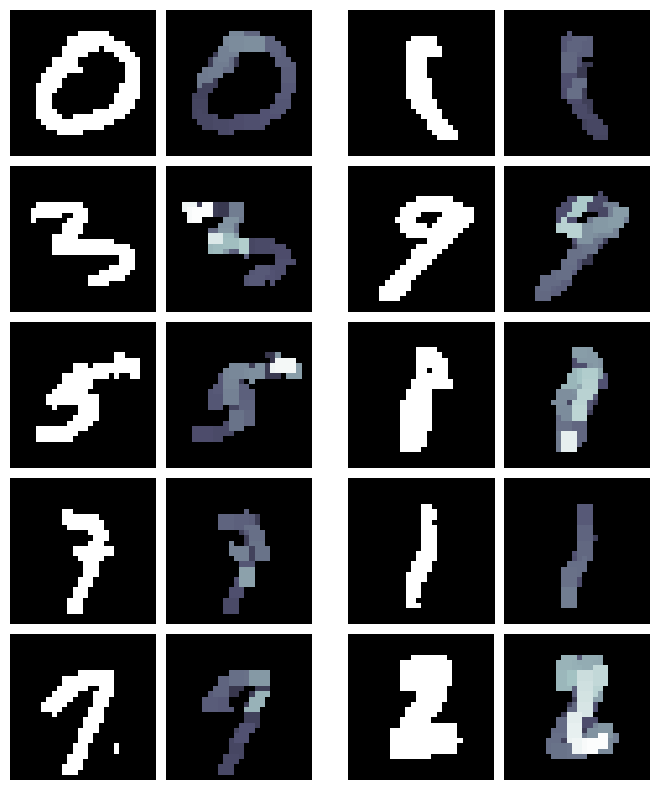
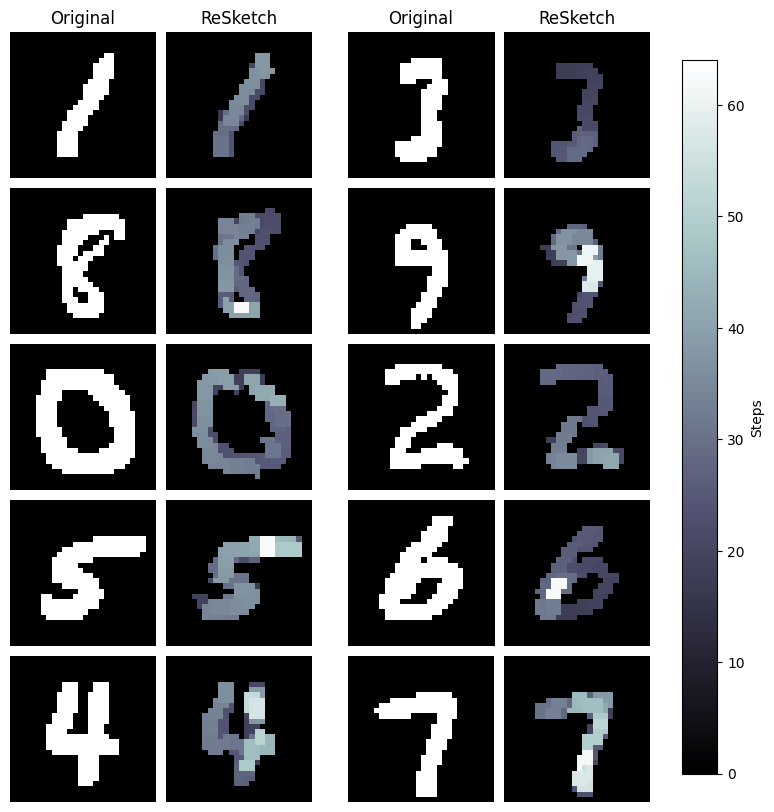
Improved image labeling

diff --git a/src_physics/nn_test.py b/src_physics/nn_test.py
@@ -15,6 +15,7 @@ from keras.models import model_from_json
 
 import matplotlib.pyplot as plt
 from mpl_toolkits.axes_grid1 import ImageGrid
+from matplotlib import cm, colors
 
 
 class Test_NN():
@@ -198,6 +199,8 @@ class Test_NN():
     def generate_image(self, colums=2):
         num = len(self.images)
         rows = int(num/colums)
+        
+        labeled = 0
 
         fig = plt.figure(figsize=(10., 10.))
         grid = ImageGrid(fig, 111,  
@@ -209,14 +212,26 @@ class Test_NN():
         sorted_images = []
         for index, item in enumerate(self.images):
             ref, canv = item
-            sorted_images.append(ref.reshape((28,28)))
-            sorted_images.append(canv.reshape((28,28)))
+            sorted_images.append((ref.reshape((28,28)), False))
+            sorted_images.append((canv.reshape((28,28)), True))
             if index % 2 == 0: sorted_images.append(interval.copy())
       
         for ax, im in zip(grid, sorted_images):
             # Iterating over the grid returns the Axes.
             ax.axis("off")
-            ax.imshow(im, cmap="bone", vmin=0, vmax=255)
+            if len(im) == 2:
+                ax.imshow(im[0], cmap="bone", vmin=0, vmax=255)
+                if labeled < 4:
+                    if im[1]:
+                        ax.set_title("ReSketch")
+                        labeled += 1
+                    else:
+                        ax.set_title("Original")
+                        labeled += 1
+            else:
+                ax.imshow(im, cmap="bone", vmin=0, vmax=255)
+        
+        fig.colorbar(cm.ScalarMappable(norm=colors.Normalize(vmin=0, vmax=64), cmap="bone"), ax=grid, orientation="vertical", fraction=0.046, pad=0.04, label="Steps")
 
         plt.savefig(f"src_physics/images/physics-{self.version}-{self.dataset}.png", bbox_inches='tight')
         plt.pause(5)

diff --git a/src/nn_test.py b/src/nn_test.py
@@ -19,6 +19,7 @@ from keras.models import model_from_json
 
 import matplotlib.pyplot as plt
 from mpl_toolkits.axes_grid1 import ImageGrid
+from matplotlib import cm, colors
 
 
 class Test_NN():
@@ -198,6 +199,8 @@ class Test_NN():
     def generate_image(self, colums=2):
         num = len(self.images)
         rows = int(num/colums)
+        
+        labeled = 0
 
         fig = plt.figure(figsize=(10., 10.))
         grid = ImageGrid(fig, 111,  
@@ -209,14 +212,26 @@ class Test_NN():
         sorted_images = []
         for index, item in enumerate(self.images):
             ref, canv = item
-            sorted_images.append(ref.reshape((28,28)))
-            sorted_images.append(canv.reshape((28,28)))
+            sorted_images.append((ref.reshape((28,28)), False))
+            sorted_images.append((canv.reshape((28,28)), True))
             if index % 2 == 0: sorted_images.append(interval.copy())
-      
+
         for ax, im in zip(grid, sorted_images):
             # Iterating over the grid returns the Axes.
             ax.axis("off")
-            ax.imshow(im, cmap="bone", vmin=0, vmax=255)
+            if len(im) == 2:
+                ax.imshow(im[0], cmap="bone", vmin=0, vmax=255)
+                if labeled < 4:
+                    if im[1]:
+                        ax.set_title("ReSketch")
+                        labeled += 1
+                    else:
+                        ax.set_title("Original")
+                        labeled += 1
+            else:
+                ax.imshow(im, cmap="bone", vmin=0, vmax=255)
+        
+        fig.colorbar(cm.ScalarMappable(norm=colors.Normalize(vmin=0, vmax=64), cmap="bone"), ax=grid, orientation="vertical", fraction=0.046, pad=0.04, label="Steps")
 
         plt.savefig(f"src/images/base-{self.version}-{self.dataset}.png", bbox_inches='tight')
         plt.pause(5)
